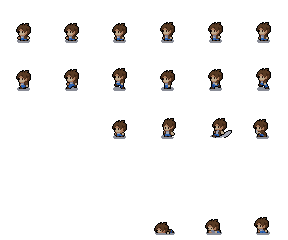
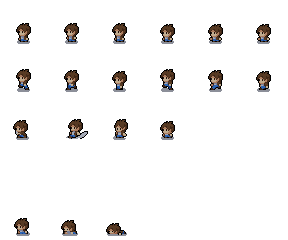
[~] Player sprite now changes direction according to user's input

diff --git a/sprites/player/player.c b/sprites/player/player.c
@@ -16,11 +16,6 @@ void print_life_bar_player(scene *d, player *p)
     sfRenderWindow_drawSprite(d->hub->window, p->lb->sprite, NULL);
 }
 
-// g->texture = get_texture(d, "player_mirror");
-// if (g->texture != NULL) {
-//     sfSprite_setTexture(g->sprite, g->texture, sfTrue);
-// }
-
 int is_mirror(player *p)
 {
     if (p->state == IDLE_MIRROR || p->state == HIT_MIRROR
@@ -29,26 +24,26 @@ int is_mirror(player *p)
     }
     return 0;
 }
-//sfKeyboard_isKeyPressed(71) || sfKeyboard_isKeyPressed(72) ||
+
 void event_player(game_obj *g, scene *d, sfEvent event)
 {
     player *p = (player *) g->data;
     sfIntRect rect = sfSprite_getTextureRect(g->sprite);
     if (p->state == HIT || p->state == HIT_MIRROR)
         return;
-    if (p->state == IDLE_MIRROR || p->state == MOVE_MIRROR)
-        printf("IDLE_MIRROR\n");
-    else
+    if (is_mirror(p))
+        p->state = IDLE_MIRROR;
+    else if (!is_mirror(p))
         p->state = IDLE;
-    if ((sfKeyboard_isKeyPressed(71)) || (sfKeyboard_isKeyPressed(73) ||
-        sfKeyboard_isKeyPressed(74)) && is_mirror(p)) {
+    if ((sfKeyboard_isKeyPressed(71)) || ((sfKeyboard_isKeyPressed(73) ||
+        sfKeyboard_isKeyPressed(74)) && is_mirror(p))) {
         p->state = MOVE_MIRROR;
         if (event.key.shift)
             p->animation_speed = 0.1;
         else
             p->animation_speed = 0.15;
-    } else if (sfKeyboard_isKeyPressed(73) ||
-        sfKeyboard_isKeyPressed(74) || sfKeyboard_isKeyPressed(72)) {
+    } else if (sfKeyboard_isKeyPressed(72) || ((sfKeyboard_isKeyPressed(73) ||
+        sfKeyboard_isKeyPressed(74)) && !is_mirror(p))) {
         p->state = MOVE;
         if (event.key.shift)
             p->animation_speed = 0.1;
@@ -56,8 +51,16 @@ void event_player(game_obj *g, scene *d, sfEvent event)
             p->animation_speed = 0.15;
     }
     if (event.type == sfEvtMouseButtonPressed && is_mirror(p)) {
-        printf("HIT_MIRROR\n");
-    } else if (event.type == sfEvtMouseButtonPressed) {
+        rect.left = 0;
+        p->state = HIT_MIRROR;
+        float distance = get_distance(g, get_closer_object(d, g, ENEMY));
+        if (distance <= 175.0 && distance >= 0.0) {
+            game_obj *s = get_object(d, "enemy_slime");
+            if (s != NULL)
+                ((slime *)s->data)->hp -= 5;
+        }
+        sfSprite_setTextureRect(g->sprite, rect);
+    } else if (event.type == sfEvtMouseButtonPressed && !is_mirror(p)) {
         rect.left = 0;
         p->state = HIT;
         float distance = get_distance(g, get_closer_object(d, g, ENEMY));
@@ -76,12 +79,14 @@ void animate_player(scene *d, game_obj *g)
     print_life_bar_player(d, data);
     switch (data->state) {
     case HIT:
+        data->hit = hit_player_animation;
         data->hit(d, g);
         break;
     case DESTROY:
         data->destroy(d, g);
         break;
     case IDLE:
+        data->idle = idle_player_animation;
         g->rect.left = 0;
         data->idle(d, g);
         break;
@@ -89,6 +94,26 @@ void animate_player(scene *d, game_obj *g)
         data->jump(d, g);
         break;
     case MOVE:
+        data->move = move_player_animation;
+        data->move(d, g);
+        break;
+    case HIT_MIRROR:
+        data->hit = hit_player_animation_mirror;
+        data->hit(d, g);
+        break;
+    case DESTROY_MIRROR:
+        data->destroy(d, g);
+        break;
+    case IDLE_MIRROR:
+        data->idle = idle_player_animation_mirror;
+        g->rect.left = 0;
+        data->idle(d, g);
+        break;
+    case JUMP_MIRROR:
+        data->jump(d, g);
+        break;
+    case MOVE_MIRROR:
+        data->move = move_player_animation_mirror;
         data->move(d, g);
         break;
     }

diff --git a/sprites/player/player_animation_mirror.c b/sprites/player/player_animation_mirror.c
@@ -7,12 +7,12 @@
 
 #include "../../include/rpg.h"
 
-void idle_player_animation(scene *d, game_obj *g)
+void idle_player_animation_mirror(scene *d, game_obj *g)
 {
     player *data = (player *)g->data;
-    if (data->state != IDLE)
+    if (data->state != IDLE_MIRROR)
         return;
-    g->texture = get_texture(d, "player");
+    g->texture = get_texture(d, "player_mirror");
     if (g->texture != NULL)
         sfSprite_setTexture(g->sprite, g->texture->texture, sfFalse);
     data->time = sfClock_getElapsedTime(g->clock);
@@ -29,12 +29,12 @@ void idle_player_animation(scene *d, game_obj *g)
     }
 }
 
-void move_player_animation(scene *d, game_obj *g)
+void move_player_animation_mirror(scene *d, game_obj *g)
 {
     player *data = (player *)g->data;
-    if (data->state != MOVE)
+    if (data->state != MOVE_MIRROR)
         return;
-    g->texture = get_texture(d, "player");
+    g->texture = get_texture(d, "player_mirror");
     if (g->texture != NULL)
         sfSprite_setTexture(g->sprite, g->texture->texture, sfFalse);
     data->time = sfClock_getElapsedTime(g->clock);
@@ -51,13 +51,13 @@ void move_player_animation(scene *d, game_obj *g)
     }
 }
 
-void hit_player_animation(scene *d, game_obj *g)
+void hit_player_animation_mirror(scene *d, game_obj *g)
 {
     player *data = (player *)g->data;
     sfIntRect rect = sfSprite_getTextureRect(g->sprite);
-    if (data->state != HIT)
+    if (data->state != HIT_MIRROR)
         return;
-    g->texture = get_texture(d, "player");
+    g->texture = get_texture(d, "player_mirror");
     if (g->texture != NULL)
         sfSprite_setTexture(g->sprite, g->texture->texture, sfFalse);
     data->time = sfClock_getElapsedTime(g->clock);
@@ -68,7 +68,7 @@ void hit_player_animation(scene *d, game_obj *g)
         rect.top = 96;
         if (rect.left > g->texture->rect.width - (3 * 48)) {
             rect = g->rect;
-            data->state = IDLE;
+            data->state = IDLE_MIRROR;
         }
         sfSprite_setTextureRect(g->sprite, rect);
         data->old_time_an = sfClock_getElapsedTime(g->clock);

diff --git a/include/object.h b/include/object.h
@@ -65,6 +65,9 @@ void create_player(scene *d);
 void idle_player_animation(scene *d, game_obj *g);
 void move_player_animation(scene *d, game_obj *g);
 void hit_player_animation(scene *d, game_obj *g);
+void idle_player_animation_mirror(scene *d, game_obj *g);
+void move_player_animation_mirror(scene *d, game_obj *g);
+void hit_player_animation_mirror(scene *d, game_obj *g);
 game_obj *create_inventory(scene *d);
 void create_chest_inventory_sprite(scene *d);
 void create_chest_background_sprite(scene *d);

diff --git a/sprites/map.c b/sprites/map.c
@@ -48,7 +48,7 @@ void action_maps(game_obj *g, scene *s)
     maps *data = g->data;
     game_obj *p_g = get_object(s, "player");
     player *p = (player *)p_g->data;
-    if (p->state != MOVE)
+    if (p->state != MOVE && p->state != MOVE_MIRROR)
         return;
     collision_map(s, g);
     data->time = sfClock_getElapsedTime(g->clock);
